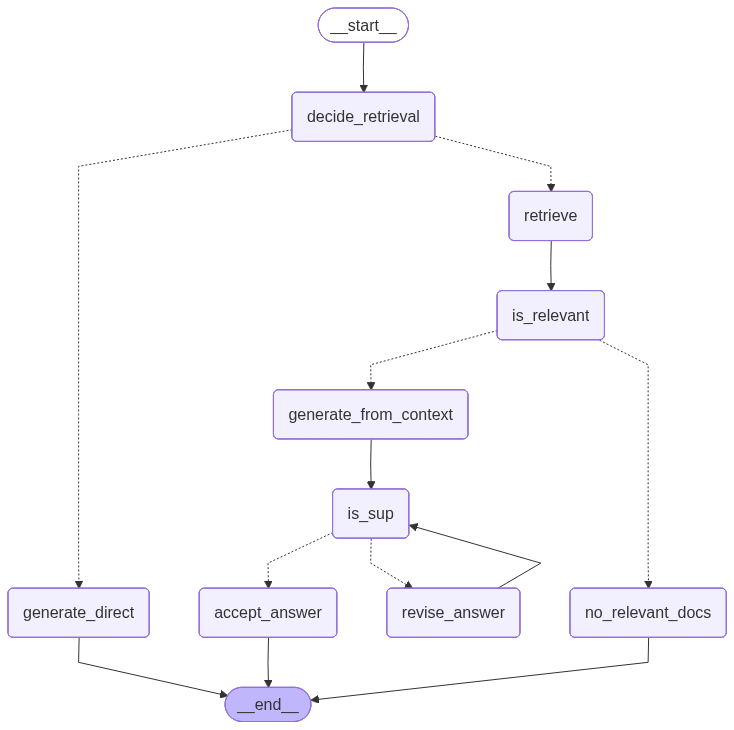
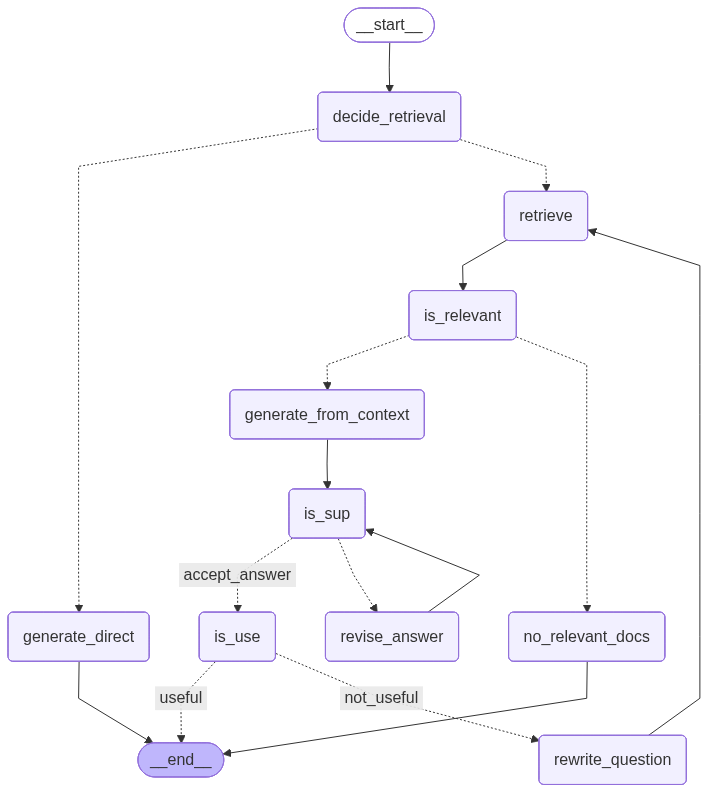
feat(graph): implement IsUSE and RewriteDecision nodes; update workflow for answer usefulness evaluation and question rewriting

diff --git a/apps/main.py b/apps/main.py
@@ -1,31 +1,74 @@
 from apps.graph.rag import workflow
 
-input_data = {
-        "question": "Describe NexaAI’s company culture.",
-        "docs": [],
-        "relevant_docs": [],
-        "context": "",
-        "answer": "",
-        "issup": "",
-        "evidence": [],
-        "retries": 0,
-    }
-
-result = workflow.invoke(input_data)
-
-print("need_retrieval:", result.get("need_retrieval"))
-print("#docs:", len(result.get("docs", [])))
-print("#relevant_docs:", len(result.get("relevant_docs", [])))
-print("issup:", result.get("issup"))
-print("evidence:", result.get("evidence"))
-print("answer:", result.get("answer"))
-print("retries:", result.get("retries"))
+# -----------------------------
+# Run the graph
+# -----------------------------
+initial_state = {
+    "question": "Describe Business Analytics & Reporting of Nexa AI in detail.",
+    # "retrieval_query": "What is the refund policy of NexaAI",  # ✅ important
+    "rewrite_max_retries": 0,                                        # ✅ important
+    "docs": [],
+    "relevant_docs": [],
+    "context": "",
+    "answer": "",
+    "issup": "",
+    "evidence": [],
+    "retries": 0,
+    "isuse": "not_useful",
+    "use_reason": "",
+}
 
 
-# for doc in result['docs']:
-#     print("DOC:\n",doc.page_content)
-#     print("*"*100)
+result = workflow.invoke(
+    initial_state,
+    config={"recursion_limit": 80},  # allow revise → verify loops
+)
 
-# for doc in result['relevant_docs']:
-#     print("RELEVANT:\n", doc.page_content)
-#     print("*"*100)
+# -----------------------------
+# Debug / inspection output (clean + complete)
+# -----------------------------
+print("\n===== RAG EXECUTION RESULT =====\n")
+
+print("Question:", initial_state.get("question"))
+print("Need Retrieval:", result.get("need_retrieval"))
+
+# If you added these counters/fields in your State:
+print("Rewrite tries (retrieval):", result.get("rewrite_max_retries", 0))
+print("Support revise tries:", result.get("retries", 0))
+
+print("\nRetrieval:")
+print("  Total retrieved docs:", len(result.get("docs", []) or []))
+print("  Relevant docs:", len(result.get("relevant_docs", []) or []))
+
+# Optional: show sources/pages for relevant docs
+relevant_docs = result.get("relevant_docs", []) or []
+if relevant_docs:
+    print("\nRelevant docs (source/page):")
+    for i, d in enumerate(relevant_docs, 1):
+        src = (d.metadata or {}).get("source", "unknown")
+        page = (d.metadata or {}).get("page", None)
+        title = (d.metadata or {}).get("title", "")
+        extra = f", title={title}" if title else ""
+        if page is not None:
+            print(f"  {i}. source={src}, page={page}{extra}")
+        else:
+            print(f"  {i}. source={src}{extra}")
+
+print("\nVerification (IsSUP):")
+print("  issup:", result.get("issup"))
+evidence = result.get("evidence", []) or []
+if evidence:
+    print("  evidence:")
+    for e in evidence:
+        print("   -", e)
+else:
+    print("  evidence: (none)")
+
+print("\nUsefulness (IsUSE):")
+print("  isuse:", result.get("isuse"))
+print("  reason:", result.get("use_reason", ""))
+
+print("\nFinal Answer:")
+print(result.get("answer"))
+
+print("\n===============================\n")

diff --git a/apps/graph/prompts.py b/apps/graph/prompts.py
@@ -117,3 +117,55 @@ revise_prompt = ChatPromptTemplate.from_messages(
         ),
     ]
 )
+
+
+isuse_prompt = ChatPromptTemplate.from_messages(
+    [
+        (
+            "system",
+            "You are judging USEFULNESS of the ANSWER for the QUESTION.\n\n"
+            "Goal:\n"
+            "- Decide if the answer actually addresses what the user asked.\n\n"
+            "Return JSON with keys: isuse, reason.\n"
+            "isuse must be one of: useful, not_useful.\n\n"
+            "Rules:\n"
+            "- useful: The answer directly answers the question or provides the requested specific info.\n"
+            "- not_useful: The answer is generic, off-topic, or only gives related background without answering.\n"
+            "- Do NOT use outside knowledge.\n"
+            "- Do NOT re-check grounding (IsSUP already did that). Only check: 'Did we answer the question?'\n"
+            "- Keep reason to 1 short line."
+        ),
+        (
+            "human",
+            "Question:\n{question}\n\nAnswer:\n{answer}"
+        ),
+    ]
+)
+
+
+rewrite_for_retrieval_prompt = ChatPromptTemplate.from_messages(
+    [
+        (
+            "system",
+            "Rewrite the user's QUESTION into a query optimized for vector retrieval over INTERNAL company PDFs.\n\n"
+            "Rules:\n"
+            "- Keep it short (6–16 words).\n"
+            "- Preserve key entities (e.g., NexaAI, plan names).\n"
+            "- Add 2–5 high-signal keywords that likely appear in policy/pricing docs.\n"
+            "- Remove filler words.\n"
+            "- Do NOT answer the question.\n"
+            "- Output JSON with key: retrieval_query\n\n"
+            "Examples:\n"
+            "Q: 'Do NexaAI plans include a free trial?'\n"
+            "-> {{'retrieval_query': 'NexaAI free trial duration trial period plans'}}\n\n"
+            "Q: 'What is NexaAI refund policy?'\n"
+            "-> {{'retrieval_query': 'NexaAI refund policy cancellation refund timeline charges'}}"
+        ),
+        (
+            "human",
+            "QUESTION:\n{question}\n\n"
+            "Previous retrieval query:\n{retrieval_query}\n\n"
+            "Answer (if any):\n{answer}"
+        ),
+    ]
+)

diff --git a/apps/graph/nodes.py b/apps/graph/nodes.py
@@ -36,7 +36,8 @@ def generate_direct(state: State):
 def retrieve(state: State):
     vector_store = create_embeddings()
     retriever = vector_store.as_retriever(search_kwargs={"k": 4})
-    return {"docs": retriever.invoke(state["question"])}
+    question = state.get("rewrite_question") or state["question"]
+    return {"docs": retriever.invoke(question)}
 
 
 # ----------------------------
@@ -125,3 +126,39 @@ def revise_answer(state: State):
 
 def accept_answer(state: State):
     return {}  # keep answer as-is
+
+
+# ----------------------------
+# 8. IsUSE - Decide whether the generated answer is useful or not
+# ----------------------------
+isuse_llm = llm.with_structured_output(IsUSEDecision)
+
+def is_use(state: State):
+    decision: IsUSEDecision = isuse_llm.invoke(
+        isuse_prompt.format_messages(
+            question=state["question"],
+            answer=state.get("answer", ""),
+        )
+    )
+    return {"isuse": decision.isuse, "use_reason": decision.reason}
+
+
+# ----------------------------
+# 9. Rewrite question if answer not useful
+# ----------------------------
+rewrite_llm = llm.with_structured_output(RewriteDecision)
+
+def rewrite_question(state: State):
+    decision: RewriteDecision = rewrite_llm.invoke(
+        rewrite_for_retrieval_prompt.format_messages(
+            question=state["question"],
+            retrieval_query = state.get("retrieval_query", ""),
+            answer=state.get("answer", "")
+        )
+    )
+
+    return {
+        "retrieval_query": decision.retrieval_query,
+        "rewrite_max_retries": state.get("rewrite_max_retries", 0) + 1,
+    }
+    

diff --git a/apps/graph/rag.py b/apps/graph/rag.py
@@ -19,7 +19,8 @@ graph.add_node("generate_from_context", generate_from_context)
 graph.add_node("no_relevant_docs", no_relevant_docs)
 graph.add_node("is_sup", is_sup)
 graph.add_node("revise_answer", revise_answer)
-graph.add_node("accept_answer", accept_answer)
+graph.add_node("is_use", is_use)
+graph.add_node("rewrite_question", rewrite_question)
 
 # --------------------
 # Edges
@@ -48,12 +49,18 @@ graph.add_edge("generate_from_context", "is_sup")
 graph.add_conditional_edges(
     "is_sup", route_after_issup,
     {
-        "accept_answer": "accept_answer",
+        "accept_answer": "is_use",
         "revise_answer": "revise_answer"
     }
 )
 graph.add_edge("revise_answer", "is_sup")
-graph.add_edge("accept_answer", END)
+graph.add_conditional_edges("is_use", route_after_isuse,
+    {
+        "useful": END,
+        "not_useful": "rewrite_question"
+    }
+)
+graph.add_edge("rewrite_question", "retrieve")
 
 workflow = graph.compile()
 

diff --git a/apps/schema/schema.py b/apps/schema/schema.py
@@ -19,6 +19,12 @@ class State(TypedDict):
 
     retries: int
 
+    isuse: Literal["useful", "not_useful"]
+    use_reason: str
+
+    retrieval_query: str
+    rewrite_max_retries: int
+
 
 class RetrieveDecision(BaseModel):
     should_retrieve: bool = Field(
@@ -37,3 +43,15 @@ class RelevanceDecision(BaseModel):
 class IsSUPDecision(BaseModel):
     issup: Literal["fully_supported", "partially_supported", "no_support"]
     evidence: List[str] = Field(default_factory=list)
+
+
+class IsUSEDecision(BaseModel):
+    isuse: Literal["useful", "not_useful"]
+    reason: str = Field(..., description="Short reason in 1 line.")
+
+
+class RewriteDecision(BaseModel):
+    retrieval_query: str = Field(
+        ...,
+        description="Rewritten query optimized for vector retrieval against internal company PDFs."
+    )

diff --git a/apps/graph/routers.py b/apps/graph/routers.py
@@ -25,3 +25,9 @@ def route_after_issup(state:State) -> Literal["accept_answer", "revise_answer"]:
 
     # otherwise revise again
     return "revise_answer"
+
+
+def route_after_isuse(state: State) -> Literal["useful", "not_useful"]:
+    if state.get("isuse") == "useful":
+        return "useful"
+    return "not_useful"
